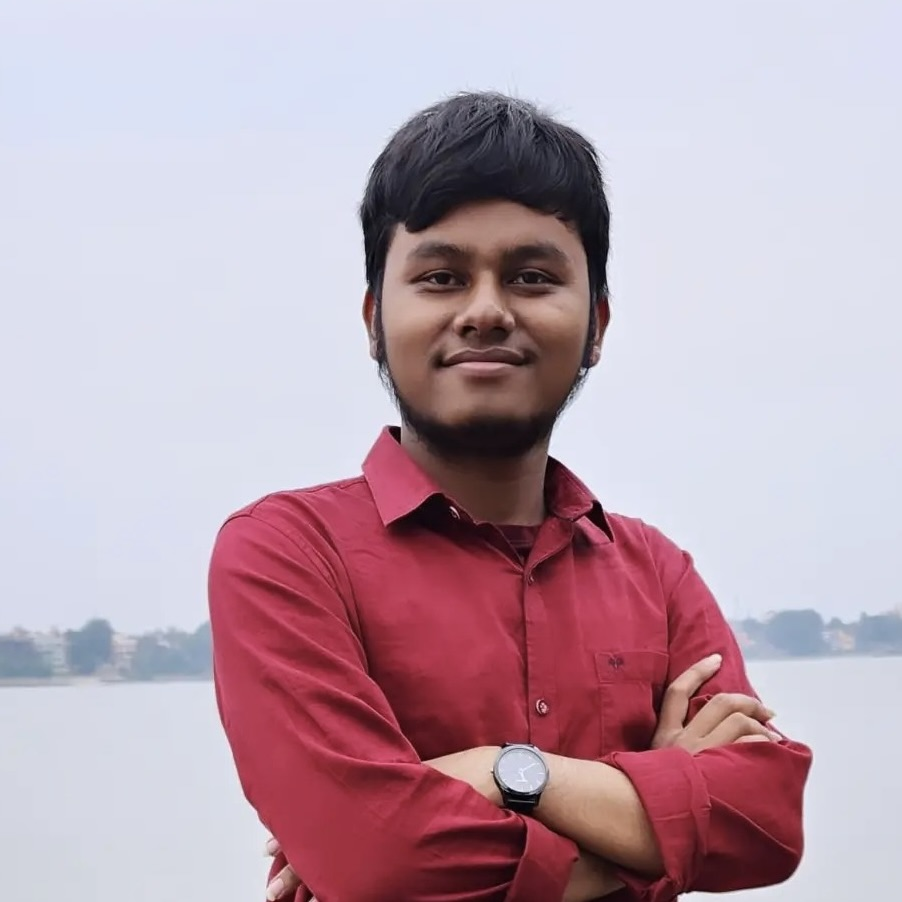
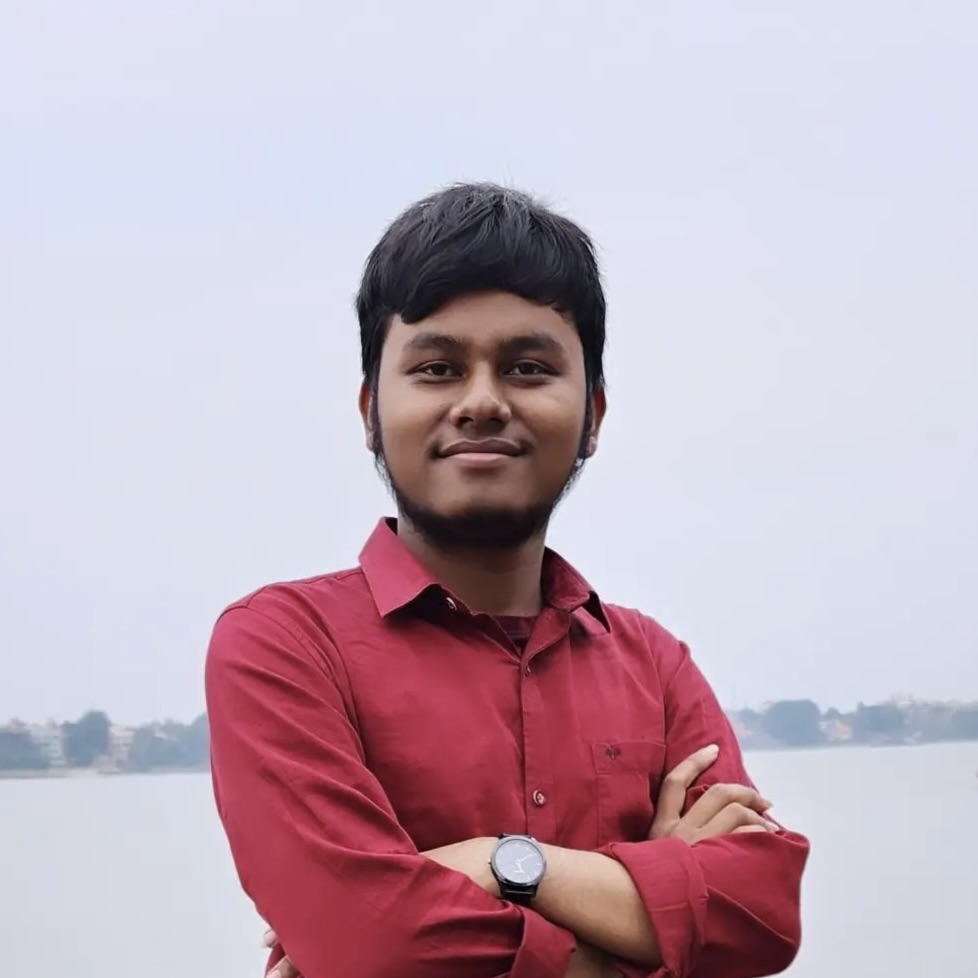
Aligned the profile picture properly

diff --git a/index.html b/index.html
@@ -263,7 +263,7 @@
     <section class="page-section reveal" id="activities">
       <h2 class="section-heading">Activities</h2>
       <ul class="activity-list">
-        <li>Hall Literary Team — GC Gold (Hindi Elocution), SFM and Clay Modelling Team</li>
+        <li>Hall Literary Team - GC Gold (Hindi Elocution), SFM and Clay Modelling Team</li>
         <li>Wing Representative at Azad Hall of Residence</li>
         <li>Best Volunteer of NSS Unit 15 for the academic year 2024–25</li>
       </ul>
